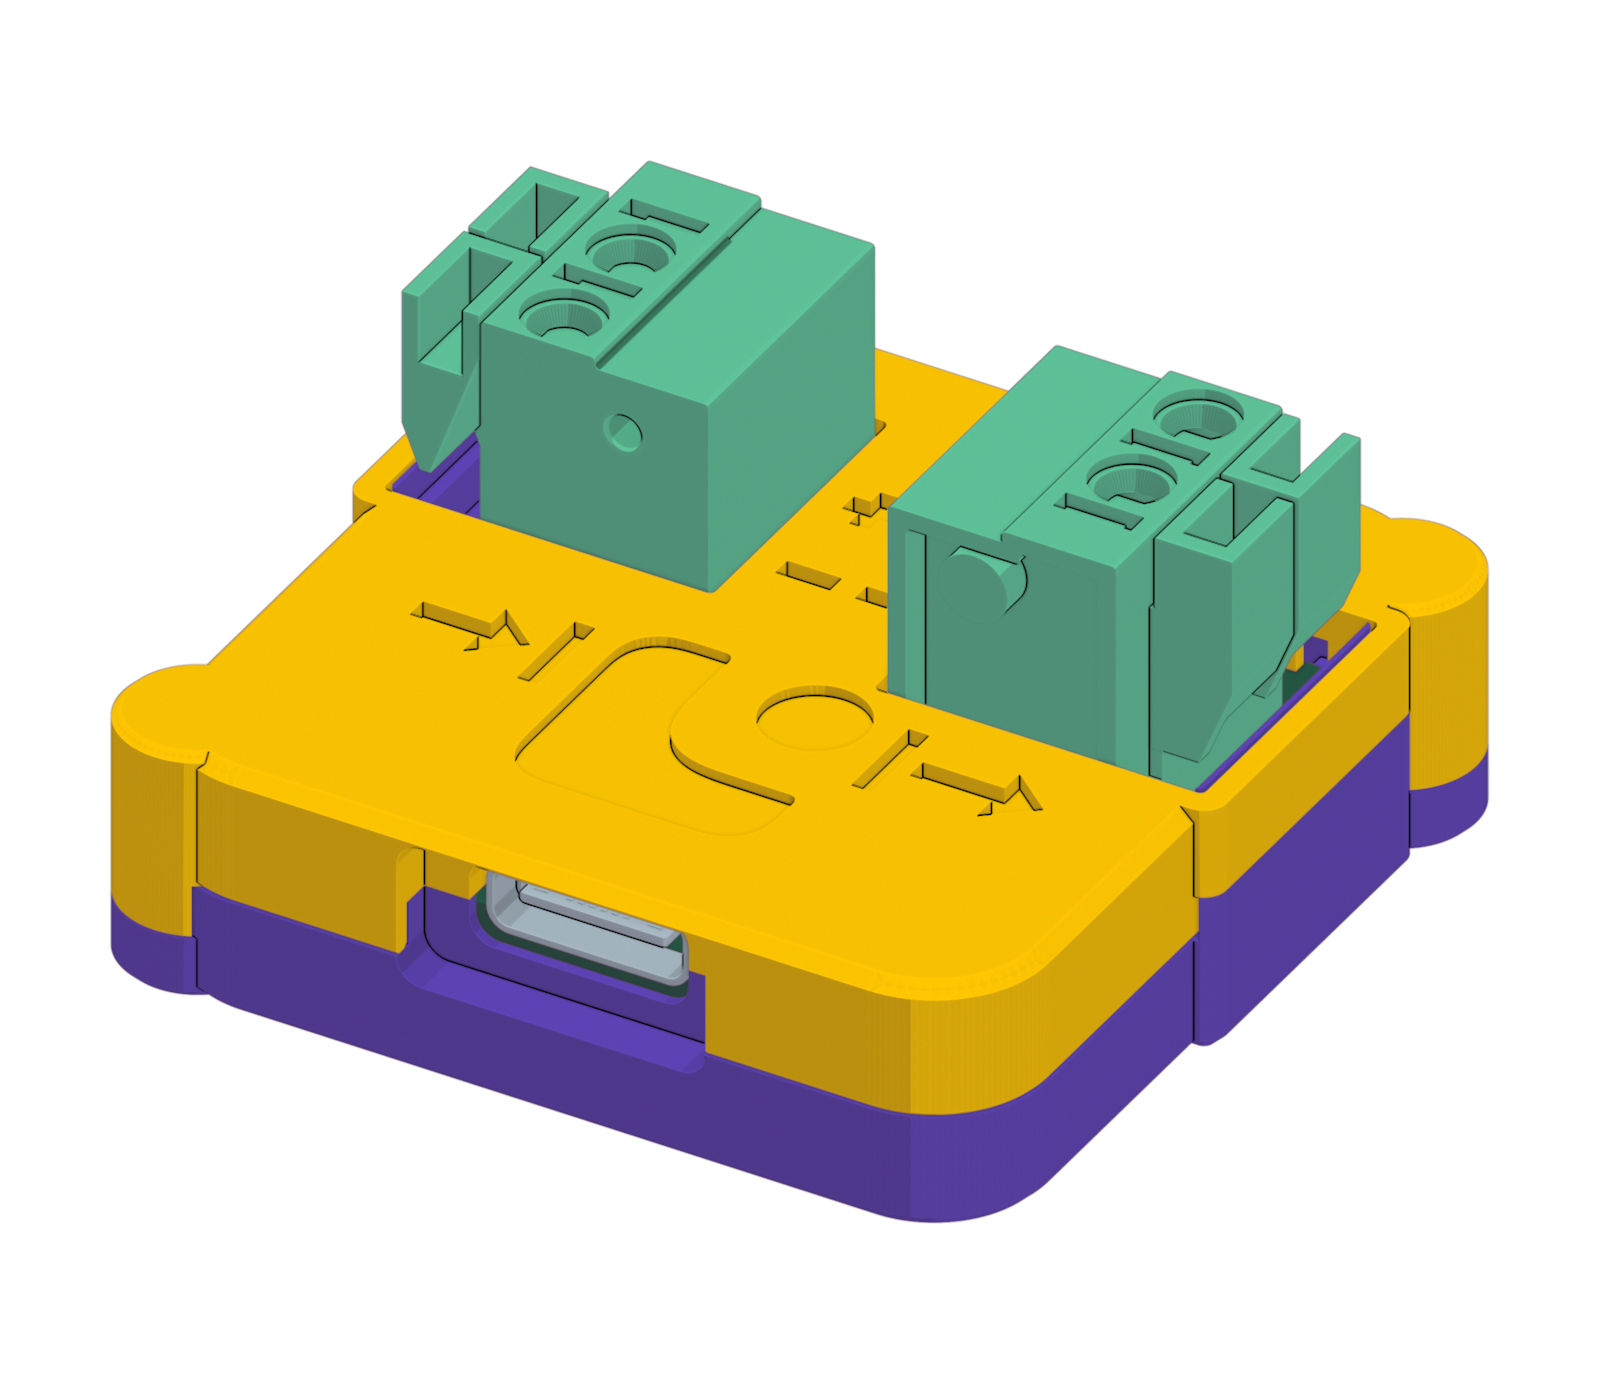
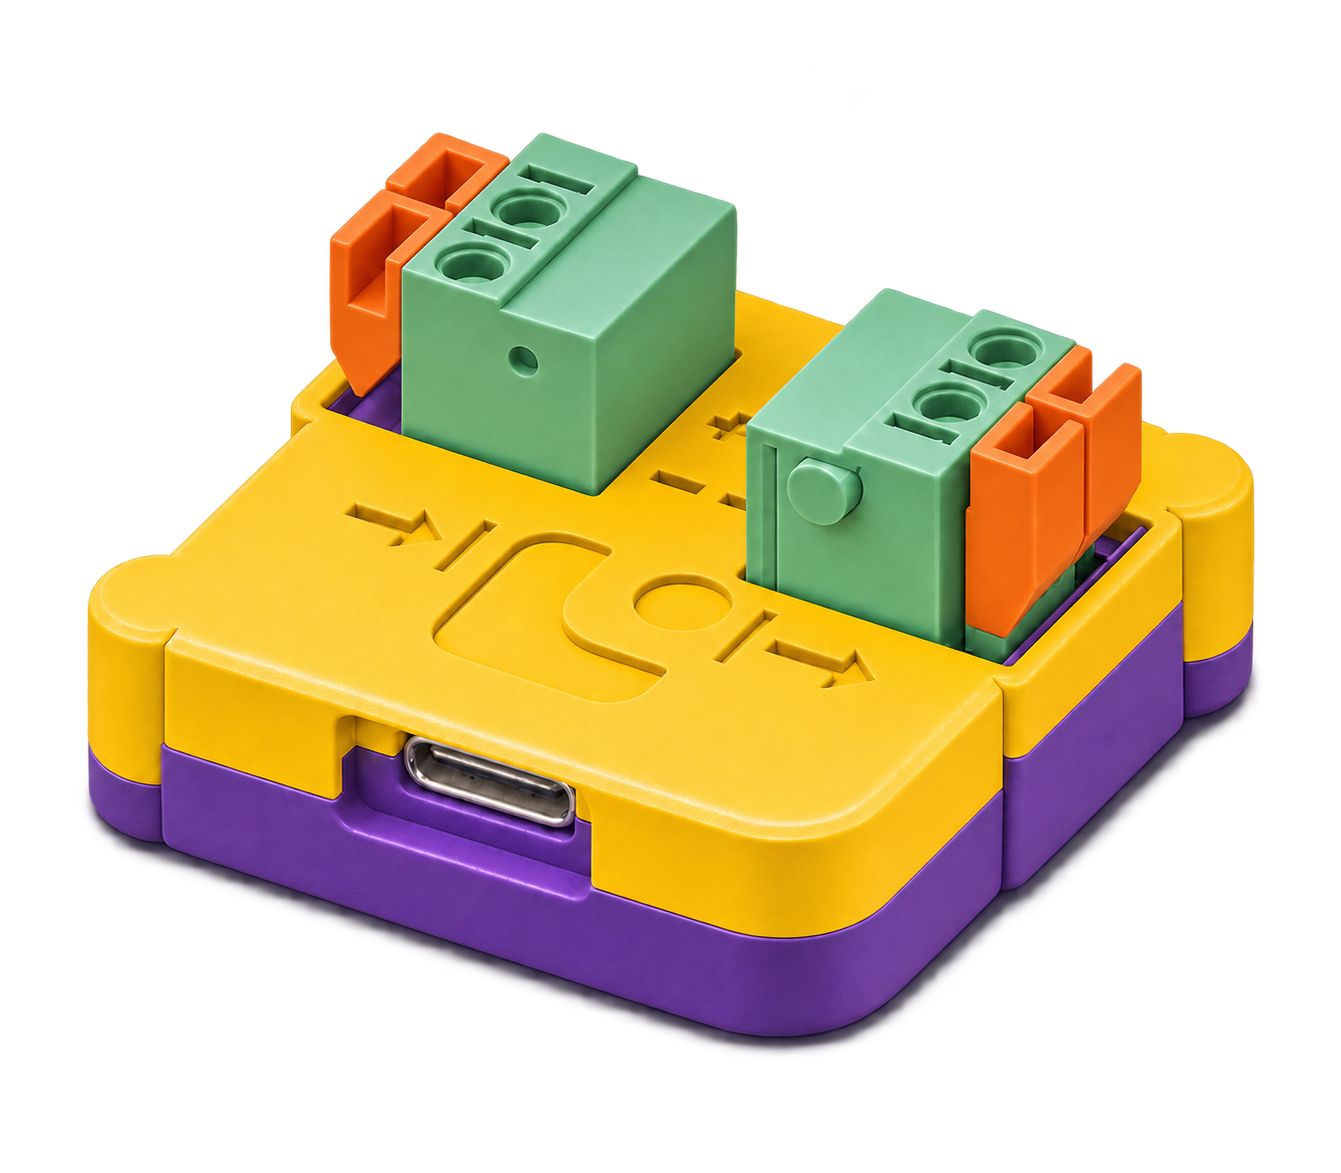
docs: refresh product illustrations with orange terminal actuators

diff --git a/docs/assets/guide-figures.html b/docs/assets/guide-figures.html
@@ -6,7 +6,7 @@
 <section class="figure" id="ports">
   <div class="heading"><small>FIG 01 · 接口识别</small><h2>先认清 IN、OUT 和 USB-C</h2></div>
   <div class="ports-stage">
-    <img src="product-render.png" alt="voloo 外观渲染">
+    <img src="product-render.png" alt="voloo 外观渲染：黄紫外壳、绿色端子和橙色按压件">
     <svg viewBox="0 0 1098 810" aria-hidden="true"><path class="wire" d="M310 130 H360 L444 225"/><circle class="dot" cx="444" cy="225" r="15"/><path class="wire" d="M845 280 H805 L740 340"/><circle class="dot" cx="740" cy="340" r="15"/><path class="wire" d="M480 705 V640 L454 510"/><circle class="dot" cx="454" cy="510" r="15"/></svg>
     <div class="label in"><b><span class="stepnum">1</span>IN / SOURCE</b>接独立电源 A</div>
     <div class="label out"><b><span class="stepnum">2</span>OUT / DUT</b>接被测设备的电源输入</div>
